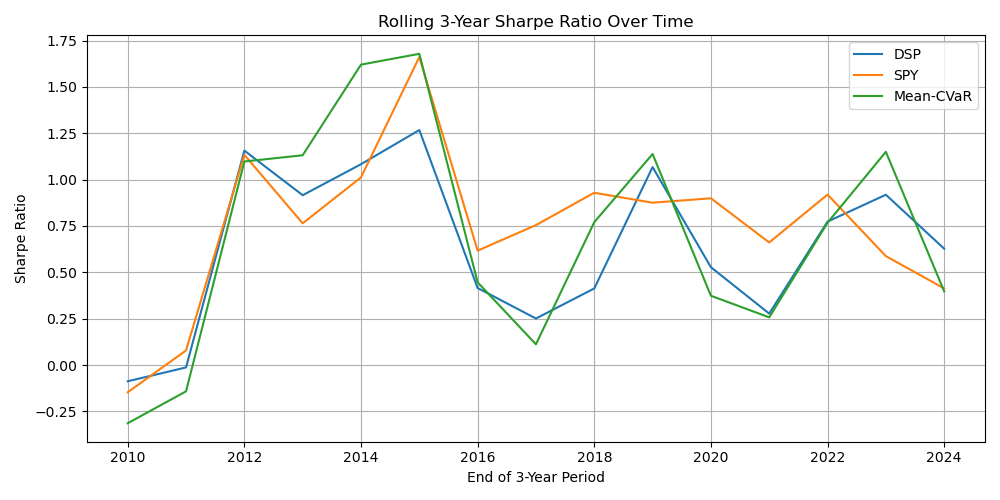
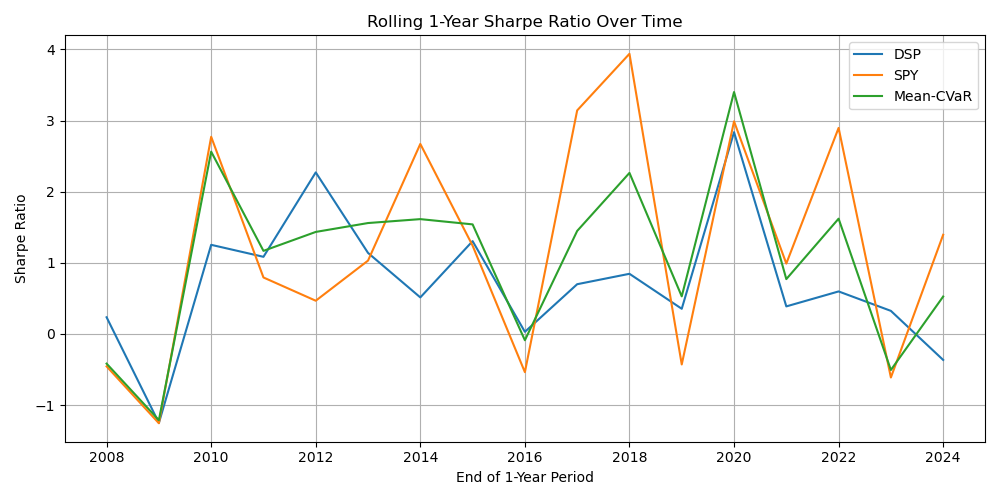
Included weight normalization constraint in DSP routine

diff --git a/Backtesting/analyze_performance.py b/Backtesting/analyze_performance.py
@@ -3,7 +3,7 @@ sys.path.append(os.path.abspath('.'))
 SAVE_DIR = os.path.join(os.path.dirname(__file__), 'Results')
 SAVE_DIR_DSP = os.path.join(SAVE_DIR, 'DSP')
 SAVE_DIR_MCVAR = os.path.join(SAVE_DIR, 'MCVAR')
-SAVE_PATH_DSP = os.path.join(SAVE_DIR, "backtest_results_DSP_0_4330_50.npy")
+SAVE_PATH_DSP = os.path.join(SAVE_DIR, "backtest_results.npy")
 SAVE_PATH_MCVAR = os.path.join(SAVE_DIR, "backtest_results_MCVAR_0_4330_95.npy")
 os.makedirs(SAVE_DIR, exist_ok=True)
 os.makedirs(SAVE_DIR_DSP, exist_ok=True)
@@ -19,8 +19,8 @@ tickers = ['spy', 'xlb', 'xle', 'xlf', 'xli', 'xlk', 'xlu', 'xlv', 'xly']
 J = 10000
 df = 6
 rebalance_every = 20  # daily for test
-decay = 0.5
-n_days = 3*252  # 5 years of trading days (252 days/year * 5 years)
+decay = 0.95
+n_days = int(1*252)  # n years of trading days (252 days/year * n years)
 k0 = range(0, 4330-n_days, 252)
 k1 = range(252, 4330, 252)
 sharpe_ratios_DSP = []
@@ -50,7 +50,7 @@ for k in k0:
     btDSP = Backtester(btDSP)
     resultsDSP = np.load(SAVE_PATH_DSP, allow_pickle=True)
     btDSP.store_backtest_results(resultsDSP, start_idx=start_idx, end_idx=end_idx)
-    print(f"Performance of DSP backtest results over period {start_idx // 252 + 2007} to {end_idx // 252 + 2007}")
+    #print(f"Performance of DSP backtest results over period {start_idx // 252 + 2007} to {end_idx // 252 + 2007}")
     metrics = btDSP.performance()
     sharpe_ratios_DSP.append(metrics[0])
     MaxDrawdown_DSP.append(metrics[1])
@@ -60,7 +60,7 @@ for k in k0:
     btMCVAR = Backtester(btMCVAR)
     resultsMCVAR = np.load(SAVE_PATH_MCVAR, allow_pickle=True)
     btMCVAR.store_backtest_results(resultsMCVAR, start_idx=start_idx, end_idx=end_idx)
-    print(f"Performance of Mean-CVaR backtest results over period {start_idx // 252 + 2007} to {end_idx // 252 + 2007}")
+    #print(f"Performance of Mean-CVaR backtest results over period {start_idx // 252 + 2007} to {end_idx // 252 + 2007}")
     metrics = btMCVAR.performance()
     sharpe_ratios_MCVAR.append(metrics[0])
     MaxDrawdown_MCVAR.append(metrics[1])
@@ -148,3 +148,67 @@ plt.tight_layout()
 plt.savefig(os.path.join(SAVE_DIR, "rolling_max_drawdown_comparison.png"))
 plt.show()
 plt.close()
+
+
+# Plot weight evolution for the full period (outside the rolling window loop)
+print("Generating weight evolution plots for DSP portfolio...")
+
+# Load full period results for weight analysis
+btDSP_full = DSPBacktester(tickers=tickers, J=J, df=df,
+                          rebalance_every=rebalance_every, decay=decay)
+btDSP_full = Backtester(btDSP_full)
+resultsDSP_full = np.load(SAVE_PATH_DSP, allow_pickle=True)
+btDSP_full.store_backtest_results(resultsDSP_full, start_idx=0, end_idx=4330)
+
+# Get weights dataframe
+weights_df = btDSP_full.get_weights_df()
+dates = btDSP_full.rebalance_dates
+
+# Simple line chart showing all weights over time
+plt.figure(figsize=(14, 8))
+for col in weights_df.columns:
+    plt.plot(dates, weights_df[col], label=col.upper(), linewidth=2)
+
+plt.axhline(y=0, color='black', linestyle='--', alpha=0.5)
+plt.title('DSP Portfolio Weights Evolution Over Time')
+plt.xlabel('Date')
+plt.ylabel('Portfolio Weight')
+plt.legend(bbox_to_anchor=(1.05, 1), loc='upper left')
+plt.grid(True, alpha=0.3)
+plt.tight_layout()
+plt.savefig(os.path.join(SAVE_DIR, "DSP_weight_evolution.png"), dpi=300, bbox_inches='tight')
+plt.show()
+plt.close()
+
+
+# Plot weight evolution for the full period (outside the rolling window loop)
+print("Generating weight evolution plots for Mean-CVaR portfolio...")
+
+# Load full period results for weight analysis
+btMeanCVaR_full = MeanCVaRBacktester(tickers=tickers, J=J, df=df,
+                                      rebalance_every=rebalance_every, decay=decay)
+btMeanCVaR_full = Backtester(btMeanCVaR_full)
+resultsMeanCVaR_full = np.load(SAVE_PATH_MCVAR, allow_pickle=True)
+btMeanCVaR_full.store_backtest_results(resultsMeanCVaR_full, start_idx=0, end_idx=4330)
+
+# Get weights dataframe
+weights_df = btMeanCVaR_full.get_weights_df()
+dates = btMeanCVaR_full.rebalance_dates
+
+# Simple line chart showing all weights over time
+plt.figure(figsize=(14, 8))
+for col in weights_df.columns:
+    plt.plot(dates, weights_df[col], label=col.upper(), linewidth=2)
+
+plt.axhline(y=0, color='black', linestyle='--', alpha=0.5)
+plt.title('Mean-CVaR Portfolio Weights Evolution Over Time')
+plt.xlabel('Date')
+plt.ylabel('Portfolio Weight')
+plt.legend(bbox_to_anchor=(1.05, 1), loc='upper left')
+plt.grid(True, alpha=0.3)
+plt.tight_layout()
+plt.savefig(os.path.join(SAVE_DIR, "MCVAR_weight_evolution.png"), dpi=300, bbox_inches='tight')
+plt.show()
+plt.close()
+
+

diff --git a/Backtesting/Backtesting.py b/Backtesting/Backtesting.py
@@ -7,8 +7,8 @@ from Optimizers.DSP.dsp_solver import DSPOptimizer
 from Optimizers.MeanCVaR.mean_CVaR_solver import MeanCVaROptimizer
 
 class Backtester:
-    def __init__(self, Backtester):
-        self.optimizer = Backtester  # Instance of DSPBacktester, MeanCVaRBacktester, etc.
+    def __init__(self, Optimizer):
+        self.optimizer = Optimizer  # Instance of DSPBacktester, MeanCVaRBacktester, etc.
         self.rebalance_every = self.optimizer.rebalance_every
         self.decay = self.optimizer.decay
 
@@ -20,9 +20,9 @@ class Backtester:
         self.total_wealth_spy = [] 
         self.pnl_history_spy = []
 
-        self.valid_returns = Backtester.valid_returns
-        self.valid_dates = Backtester.valid_dates
-        self.tickers = Backtester.tickers
+        self.valid_returns = Optimizer.valid_returns
+        self.valid_dates = Optimizer.valid_dates
+        self.tickers = Optimizer.tickers
 
     def compute_weights_on_date(self, date_idx):
         date_str = str(self.valid_dates[date_idx])[:10]
@@ -46,24 +46,21 @@ class Backtester:
             w_new = w_opt[0]
 
             # Update total positions
-            # Method 1: Decay and accumulate weights (original in the paper)
-            #cost = (w_new - (1 - self.decay ) * w_total ) @ self.valid_returns[t]
-            # w_total = self.decay * w_total + w_new
 
-            if isinstance(self.optimizer, DSPOptimizer):
-                # Method 2: Normalize weights and accumulate with weight-dependent decay
-                w_new = w_new / np.sum(np.abs(w_new))
+            if isinstance(self.optimizer, DSPOptimizer) or isinstance(self.optimizer, MeanCVaROptimizer):
+                # Method 2: Simple decay - assume optimizer enforces sum(w) = 1
+                # No normalization needed if optimization has budget constraint
                 if i == 0:
-                    #print(w_new)
                     w_total = w_new
                 else:
-                    m = min(self.decay, 1 - self.decay)
-                    M = max(self.decay, 1 - self.decay)
-                    decay = np.clip(sum(w_total != 0)/sum(w_new != 0),m,M)  # Adjust decay based on previous weights
+                    # m = min(self.decay, 1 - self.decay)
+                    # M = max(self.decay, 1 - self.decay)
+                    # decay = np.clip(sum(w_total != 0)/sum(w_new != 0),m,M)
+                    decay = self.decay
                     w_total = decay * w_total + ( 1 - decay ) * w_new
             else:
                 # Method 3: Simple decay and normalize for other optimizers
-                w_total = w_new / np.sum(np.abs(w_new))
+                w_total = w_new
 
             # Compute return from observed market returns
             R_forward = self.valid_returns[t+1:t+1+self.rebalance_every]
@@ -187,7 +184,7 @@ class Backtester:
     
     def compute_risk_metrics(self, pnl_array, label=""):
 
-        print(f"Min {label} PnL:", pnl_array.min())
+        #print(f"Min {label} PnL:", pnl_array.min())
         rebalance_every = self.rebalance_every
         annual_factor = 252 / rebalance_every
 

diff --git a/Backtesting/run_parallel_backtest.py b/Backtesting/run_parallel_backtest.py
@@ -56,7 +56,7 @@ def run_parallel_backtest(tickers, lam, J, df, rebalance_every, decay, start_idx
     else:
         bt = MeanCVaRBacktester(tickers=tickers, J=J, df=df,
                                       lam=lam, rebalance_every=rebalance_every, decay=decay)
-    bt_final = Backtester(Backtester=bt)
+    bt_final = Backtester(Optimizer=bt)
     bt_final.store_backtest_results(results, start_idx=start_idx, end_idx=end_idx, save_path=save_path)
     #bt_final.performance()
     print(bt_final.get_pnl_df())
@@ -68,11 +68,11 @@ if __name__ == "__main__":
     lam = 0.5
     J = 10000
     df = 6
-    rebalance_every = 10
+    rebalance_every = 20
     decay = 0.95
 
     bt = run_parallel_backtest(
         tickers=tickers, lam=lam, J=J, df=df,
         rebalance_every=rebalance_every, decay=decay,
-        start_idx=0, end_idx=4330, Optimizer="MeanCVaR"
+        start_idx=0, end_idx=4330, Optimizer="DSP"
     )
